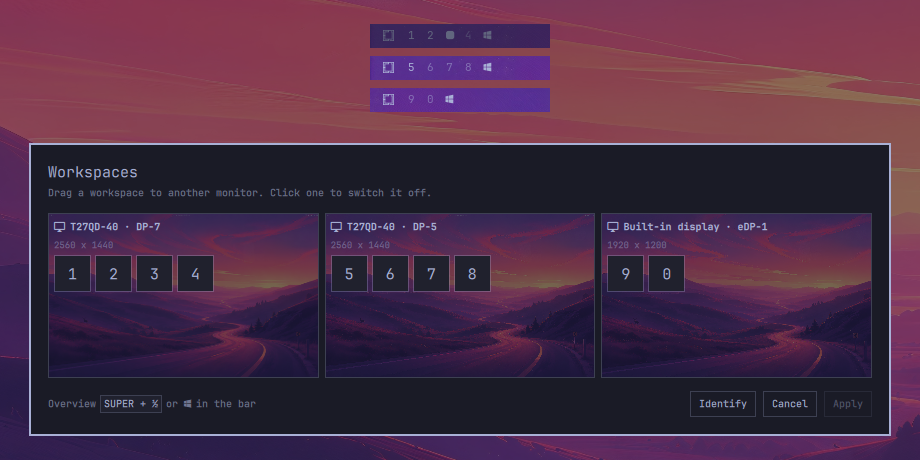
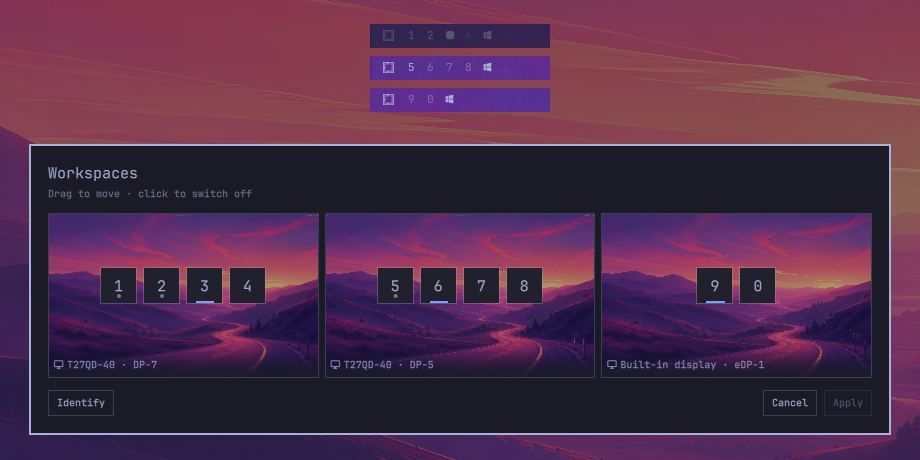
Tidy the setup panel, and show what each workspace has on it
The workspaces now sit centred on each card's screen picture instead of in
a row under the header, and the card's name runs along the bottom over a
soft shade, like a label on the bezel. The resolution line is gone, and
the picture is dimmed less, so each card reads as its screen.

Each chip shows what Hyprland has right now, as the bar does: a dot when
the workspace has windows, and an accent bar under the one its monitor is
showing.

The subtitle is shorter, the overview hint is gone from the footer,
Identify stands apart from Cancel and Apply, and chips, cards and padding
share one spacing unit.

Claude-Session: https://claude.ai/code/session_0172NYkBHyu37qDts9fwV7U2

diff --git a/Overlay.qml b/Overlay.qml
@@ -108,6 +108,9 @@ Item {
   readonly property color hairline: Qt.rgba(foreground.r, foreground.g, foreground.b, 0.25)
 
   readonly property int chipSize: Math.max(Style.space(40), Style.font.subtitle * 2.6)
+  // The editor's one spacing unit: between chips, between cards, inside a
+  // card, and twice it between the header, the cards and the footer.
+  readonly property real gap: Style.spacing.md
 
   // ── lifecycle ─────────────────────────────────────────────────────────────
 
@@ -115,18 +118,6 @@ Item {
   // button and the shortcut open. The payload says which, so `{}` — what every
   // existing menu entry and binding sends — still means the editor.
   property string view: "editor"
-
-  // The overview's shortcut as the keyboard prints it ("SUPER + ½"), for the
-  // editor's footer. Asked again on every open, since Plugin Manager can move
-  // it at any time; empty when there is none.
-  property string overviewShortcut: ""
-
-  Process {
-    id: overviewKeyProc
-    command: ["bash", root.cli, "overview-key"]
-    stdout: StdioCollector { onStreamFinished: root.overviewShortcut = text.trim() }
-    onExited: function (code) { if (code !== 0) root.overviewShortcut = "" }
-  }
 
   function open(payloadJson) {
     var payload = ({})
@@ -153,9 +144,11 @@ Item {
     if (root.opened && root.view === "editor") return
 
     root.view = "editor"
-    overviewKeyProc.running = true
-    // The cards are named by model, which only the IPC object carries.
+    // The cards are named by model, which only the IPC object carries, and the
+    // chips mark which workspaces are showing and which have windows.
     Hyprland.refreshMonitors()
+    Hyprland.refreshWorkspaces()
+    Hyprland.refreshToplevels()
     root.editorScreenName = Hyprland.focusedMonitor ? String(Hyprland.focusedMonitor.name || "") : ""
     root.revealed = false
     root.hostShot = ""
@@ -706,7 +699,7 @@ Item {
         anchors.topMargin: card.contentTopInset
         anchors.leftMargin: card.contentLeftInset
         anchors.rightMargin: card.contentRightInset
-        spacing: Style.spacing.panelGap
+        spacing: root.gap * 2
 
         // ── header ──────────────────────────────────────────────────────────
         Column {
@@ -723,8 +716,8 @@ Item {
           Text {
             width: parent.width
             text: root.monitors.length > 1
-              ? "Drag a workspace to another monitor. Click one to switch it off."
-              : "One monitor, so everything lives here. Click a workspace to switch it off."
+              ? "Drag to move · click to switch off"
+              : "Click a workspace to switch it off"
             color: root.foreground
             opacity: 0.6
             font.family: root.fontFamily
@@ -746,7 +739,7 @@ Item {
           // small to drop on, and its workspaces matter just as much. Height
           // is held to a range so the chips always fit and a single monitor
           // does not fill the screen.
-          readonly property real cardGap: Style.spacing.md
+          readonly property real cardGap: root.gap
           readonly property int cardCount: Math.max(1, root.stageMonitors.length)
           readonly property real cardAspect: {
             var widest = 0
@@ -823,63 +816,80 @@ Item {
                   sourceSize.width: 640
                 }
 
+                // A light dim, so the screen still reads as itself; the label
+                // gets its own shade below.
                 Rectangle {
                   anchors.fill: parent
                   color: root.background
-                  opacity: screenCard.targeted ? 0.45 : 0.6
+                  opacity: screenCard.targeted ? 0.2 : 0.35
+                }
+
+                // Darkens only the strip the label sits on.
+                Rectangle {
+                  anchors.left: parent.left
+                  anchors.right: parent.right
+                  anchors.bottom: parent.bottom
+                  height: labelBar.height + root.gap * 2
+                  gradient: Gradient {
+                    GradientStop { position: 0; color: "transparent" }
+                    GradientStop { position: 1; color: Qt.rgba(root.background.r, root.background.g, root.background.b, 0.9) }
+                  }
                 }
               }
 
-              Column {
-                anchors.fill: parent
-                anchors.margins: Style.spacing.md
-                spacing: Style.spacing.sm
-
-                // Named the way the Displays plugin names it, "T27QD-40 · DP-5":
-                // the model says which screen, the connector which cable.
-                Row {
-                  spacing: Style.spacing.sm
-
-                  Text {
-                    id: monitorIcon
-                    anchors.verticalCenter: parent.verticalCenter
-                    text: ""
-                    color: root.foreground
-                    font.family: root.fontFamily
-                    font.pixelSize: Style.font.subtitle
-                    textFormat: Text.PlainText
-                  }
-                  Text {
-                    anchors.verticalCenter: parent.verticalCenter
-                    width: screenCard.width - Style.spacing.md * 2 - monitorIcon.implicitWidth - Style.spacing.sm
-                    text: root.displayName(screenCard.monitorName) + " · " + screenCard.monitorName
-                    color: root.foreground
-                    font.family: root.fontFamily
-                    font.pixelSize: Style.font.bodySmall
-                    font.bold: true
-                    textFormat: Text.PlainText
-                    elide: Text.ElideRight
-                  }
-                }
-                Text {
-                  width: parent.width
-                  text: screenCard.modelData.width + " x " + screenCard.modelData.height
-                  color: root.foreground
-                  opacity: 0.45
-                  font.family: root.fontFamily
-                  font.pixelSize: Style.font.caption
-                  textFormat: Text.PlainText
-                  elide: Text.ElideRight
-                }
+              // The workspaces sit on the screen, centred in what the label
+              // leaves, the way windows sit on the real one.
+              Item {
+                anchors.top: parent.top
+                anchors.left: parent.left
+                anchors.right: parent.right
+                anchors.bottom: labelBar.top
+                anchors.margins: root.gap
 
                 Flow {
-                  width: parent.width
-                  spacing: Style.spacing.sm
+                  readonly property int count: (root.assignments[screenCard.monitorName] || []).length
+                  anchors.centerIn: parent
+                  width: Math.min(parent.width, count * root.chipSize + Math.max(0, count - 1) * root.gap)
+                  spacing: root.gap
 
                   Repeater {
                     model: root.assignments[screenCard.monitorName] || []
                     WorkspaceChip { ui: root }
                   }
+                }
+              }
+
+              // Named the way the Displays plugin names it, "T27QD-40 · DP-5",
+              // along the bottom like a label on the bezel: the model says
+              // which screen, the connector which cable.
+              Row {
+                id: labelBar
+                anchors.left: parent.left
+                anchors.right: parent.right
+                anchors.bottom: parent.bottom
+                anchors.margins: root.gap
+                spacing: Style.spacing.sm
+
+                Text {
+                  id: monitorIcon
+                  anchors.verticalCenter: parent.verticalCenter
+                  text: ""
+                  color: root.foreground
+                  opacity: 0.8
+                  font.family: root.fontFamily
+                  font.pixelSize: Style.font.bodySmall
+                  textFormat: Text.PlainText
+                }
+                Text {
+                  anchors.verticalCenter: parent.verticalCenter
+                  width: labelBar.width - monitorIcon.implicitWidth - labelBar.spacing
+                  text: root.displayName(screenCard.monitorName) + " · " + screenCard.monitorName
+                  color: root.foreground
+                  opacity: 0.8
+                  font.family: root.fontFamily
+                  font.pixelSize: Style.font.bodySmall
+                  textFormat: Text.PlainText
+                  elide: Text.ElideRight
                 }
               }
             }
@@ -891,55 +901,14 @@ Item {
           width: parent.width
           height: Style.spacing.controlHeight
 
-          // Where the overview is, since this is where people come to set
-          // things up. The shortcut is whatever it is now, not what it was
-          // first bound to — Plugin Manager can move it.
-          Row {
+          // Identify is about the desk, not the edit, so it stands apart
+          // from the two buttons that end one.
+          OverlayButton {
             anchors.left: parent.left
             anchors.verticalCenter: parent.verticalCenter
-            spacing: Style.spacing.sm
-
-            Text {
-              anchors.verticalCenter: parent.verticalCenter
-              text: root.overviewShortcut ? "Overview" : "Overview:  in the bar"
-              color: root.foreground
-              opacity: 0.6
-              font.family: root.fontFamily
-              font.pixelSize: Style.font.bodySmall
-              textFormat: Text.PlainText
-            }
-
-            Rectangle {
-              visible: root.overviewShortcut !== ""
-              anchors.verticalCenter: parent.verticalCenter
-              width: shortcutLabel.implicitWidth + Style.spacing.sm * 2
-              height: shortcutLabel.implicitHeight + Style.spacing.xxs * 2
-              radius: Style.cornerRadius
-              color: Style.normalFill
-              border.width: 1
-              border.color: root.hairline
-
-              Text {
-                id: shortcutLabel
-                anchors.centerIn: parent
-                text: root.overviewShortcut
-                color: root.foreground
-                font.family: root.fontFamily
-                font.pixelSize: Style.font.bodySmall
-                textFormat: Text.PlainText
-              }
-            }
-
-            Text {
-              visible: root.overviewShortcut !== ""
-              anchors.verticalCenter: parent.verticalCenter
-              text: "or  in the bar"
-              color: root.foreground
-              opacity: 0.6
-              font.family: root.fontFamily
-              font.pixelSize: Style.font.bodySmall
-              textFormat: Text.PlainText
-            }
+            ui: root
+            label: "Identify"
+            onActivated: root.identify()
           }
 
           Row {
@@ -947,7 +916,6 @@ Item {
             anchors.verticalCenter: parent.verticalCenter
             spacing: Style.spacing.controlGap
 
-            OverlayButton { ui: root; label: "Identify"; onActivated: root.identify() }
             OverlayButton { ui: root; label: "Cancel"; onActivated: root.dismiss() }
             OverlayButton {
               ui: root
@@ -1106,6 +1074,11 @@ Item {
       if (values[i].activeWorkspace && values[i].activeWorkspace.id === id) return true
     }
     return false
+  }
+
+  function hasWindows(id) {
+    var workspace = root.liveWorkspace(id)
+    return !!workspace && !!workspace.toplevels && workspace.toplevels.values.length > 0
   }
 
   // Tiled windows first and floating ones over them, each group oldest-focused
@@ -1346,6 +1319,33 @@ Item {
       height: 1
       color: chip.ui.foreground
       opacity: 0.35
+    }
+
+    // What Hyprland has right now, as the bar shows it: a dot when there are
+    // windows on it, and an accent bar under the one its monitor is showing.
+    readonly property bool shown: !off && ui.isShown(modelData)
+    readonly property bool occupied: !off && ui.hasWindows(modelData)
+
+    Rectangle {
+      visible: chip.occupied
+      anchors.horizontalCenter: parent.horizontalCenter
+      anchors.bottom: parent.bottom
+      anchors.bottomMargin: Math.round(parent.height * 0.16)
+      width: Math.max(3, Style.space(4))
+      height: width
+      radius: width / 2
+      color: chip.shown ? chip.ui.accent : chip.ui.foreground
+      opacity: chip.shown ? 1 : 0.6
+    }
+
+    Rectangle {
+      visible: chip.shown
+      anchors.horizontalCenter: parent.horizontalCenter
+      anchors.bottom: parent.bottom
+      anchors.bottomMargin: 1
+      width: parent.width * 0.5
+      height: Math.max(2, Style.space(2))
+      color: chip.ui.accent
     }
 
     // The move cursor, because moving is what a chip is for; a click to
